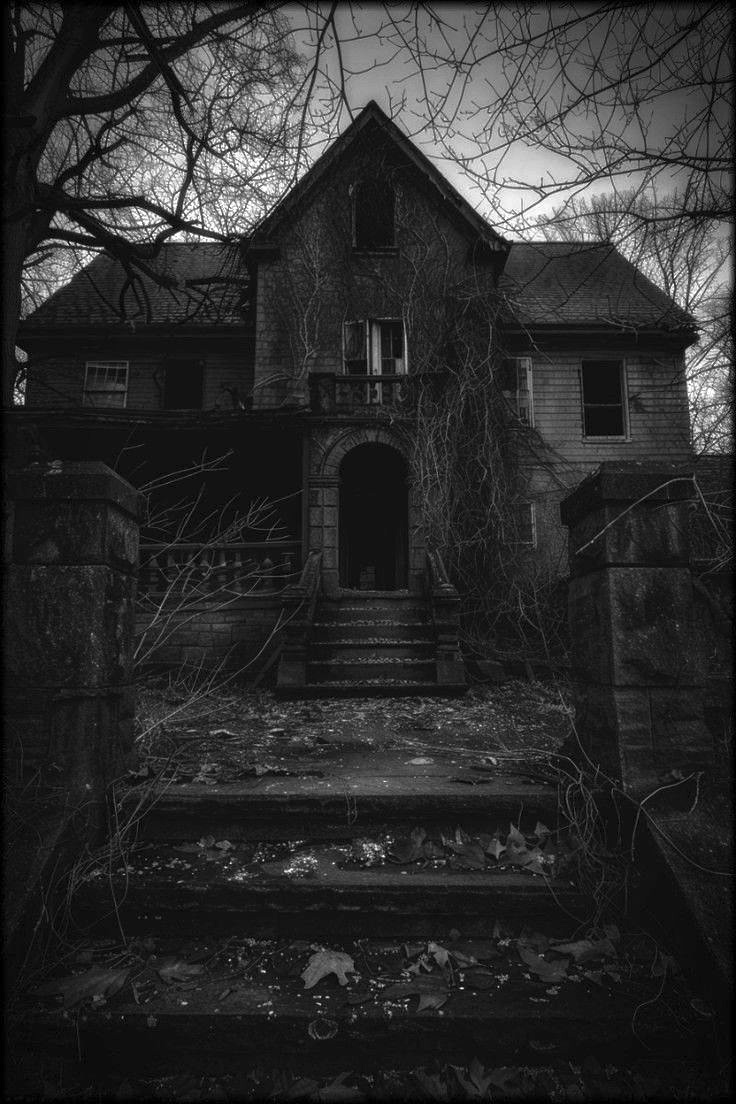
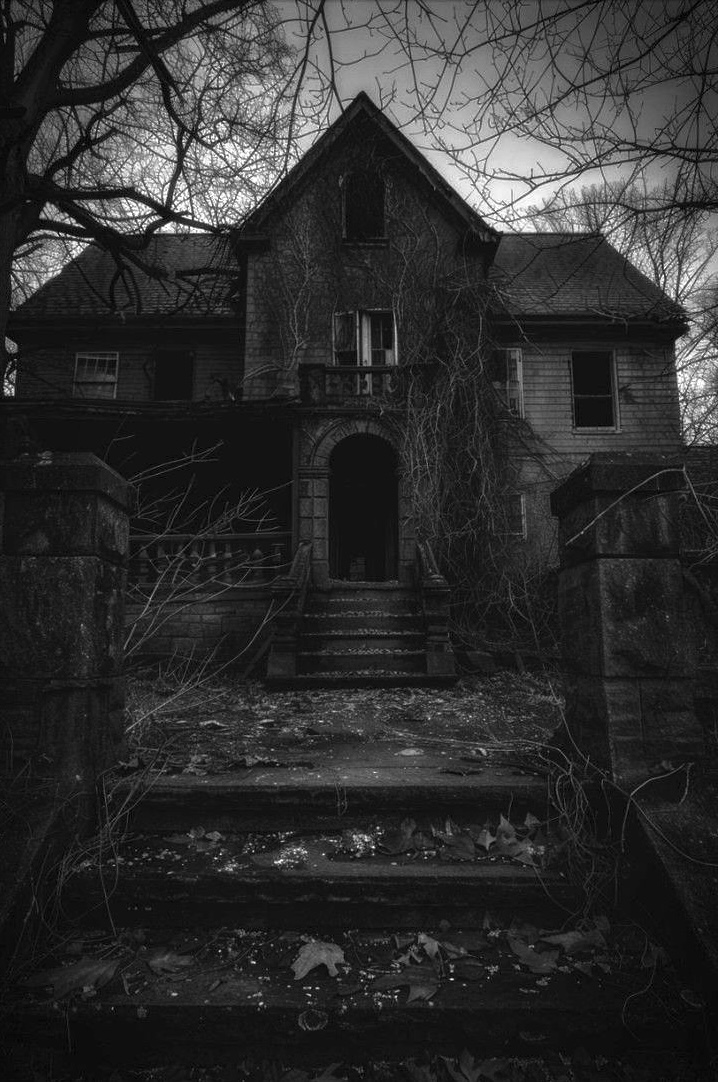
Desktop - Om festen fixet

diff --git a/om-festen.html b/om-festen.html
@@ -13,13 +13,13 @@
   <main id="main-content">
     <section class="page-hero about-hero" aria-labelledby="about-title"><div class="hero-overlay"></div><div class="container page-hero-content"><p class="eyebrow">Halloween 2026 / København</p><h1 id="about-title">Når mørket <span class="pirata">kalder</span></h1><p>Velkommen til HorrorHouse – en halloweenfest i et hjemsøgt hus, hvor musikken, mørket og overraskelserne følger dig hele natten.</p><div class="date-lockup"><span>31</span><strong>Oktober</strong></div><p class="hero-meta">20:00–03:00 <span>•</span> 18–30 år <span>•</span> gothic dresscode</p></div></section>
 
-    <section class="section" aria-labelledby="experience-title"><div class="container"><p class="eyebrow">01 / Oplevelsen</p><div class="split split-wide"><div><h2 id="experience-title">Et hus. Én nat.<br>Ingen almindelig fest.</h2><p>Når du træder ind i HorrorHouse, træder du ind i en anden verden. Gå gennem dunkle rum, mærk stemningen og bliv en del af en halloweenfest med mørk elegance og plads til både dans, grin og gåsehud.</p></div><aside class="invitation"><h3>Din invitation</h3><p><strong>31. oktober 2026</strong><br>20:00–03:00<br><strong>Mørkegyde 13<br>1560 København</strong><br>Alder: 18–30 år</p></aside></div></div></section>
+    <section class="section" aria-labelledby="experience-title"><div class="container"><p class="eyebrow">01 / Oplevelsen</p><div class="split split-wide"><div><h2 id="experience-title">Et hus. Én nat.<br>Ingen almindelig fest.</h2><p>Når du træder ind i HorrorHouse, træder du ind i en anden verden. Gå gennem dunkle rum, mærk stemningen og bliv en del af en halloweenfest med mørk elegance og plads til både dans, grin og gåsehud.</p></div><aside class="invitation"><h3>Din invitation</h3><p class="invitation-name pirata">HorrorHouse</p><dl class="invitation-details"><div><dt><svg class="icon" aria-hidden="true"><use href="#i-calendar-days"/></svg>Dato</dt><dd>31. oktober 2026</dd></div><div><dt><svg class="icon" aria-hidden="true"><use href="#i-clock"/></svg>Tidspunkt</dt><dd>20:00–03:00</dd></div><div><dt><svg class="icon" aria-hidden="true"><use href="#i-map-pin"/></svg>Adresse</dt><dd>Mørkegyde 13<br>1560 København</dd></div><div><dt><svg class="icon" aria-hidden="true"><use href="#i-ticket"/></svg>Alder</dt><dd>18–30 år</dd></div></dl></aside></div></div></section>
 
-    <section class="section section-gray" aria-labelledby="awaits-title"><div class="container"><p class="eyebrow">02 / Det venter dig</p><h2 id="awaits-title">Gå på opdagelse i natten</h2><div class="card-scroller" tabindex="0" role="region" aria-label="Festoplevelser – rul vandret for flere"><article class="image-card numbered"><img src="assets/images/about/about-01.jpg" width="723" height="960" loading="lazy" alt="Trappe med spindelvæv, skeletter og lanterner"><div><span>01</span><h3>Udforsk de mørke rum</h3><p>Gå på opdagelse i husets gange og rum, hvor ikke alt er, som det ser ud.</p><b>Mystik</b></div></article><article class="image-card numbered"><img src="assets/images/about/about-09.png" width="236" height="419" loading="lazy" alt="Gæster danser i en tåget sal"><div><span>02</span><h3>Dans i salen</h3><p>Lad musikken tage over. Dansegulvet er åbent, og natten er din.</p><b>Musik</b></div></article><article class="image-card numbered"><img src="assets/images/about/about-10.png" width="1024" height="1536" loading="lazy" alt="Blå drink og kranieflaske ved levende lys"><div><span>03</span><h3>Drinks i husets bar</h3><p>Find vej til baren, og lad dig overraske af aftenens mørke stemning.</p><b>Stemning</b></div></article></div></div></section>
+    <section class="section section-gray" aria-labelledby="awaits-title"><div class="container"><p class="eyebrow">02 / Det venter dig</p><h2 id="awaits-title">Gå på opdagelse i natten</h2><div class="card-scroller card-scroller-flush" tabindex="0" role="region" aria-label="Festoplevelser – rul vandret for flere"><article class="image-card numbered"><img src="assets/images/home/home-1.jpg" width="723" height="960" loading="lazy" alt="Trappe med spindelvæv, skeletter og lanterner"><div><span>01</span><h3>Udforsk de mørke rum</h3><p>Gå på opdagelse i husets gange og rum, hvor ikke alt er, som det ser ud.</p><b>Mystik</b></div></article><article class="image-card numbered"><img src="assets/images/about/about-09.png" width="236" height="419" loading="lazy" alt="Gæster danser i en tåget sal"><div><span>02</span><h3>Dans i salen</h3><p>Lad musikken tage over. Dansegulvet er åbent, og natten er din.</p><b>Musik</b></div></article><article class="image-card numbered"><img src="assets/images/about/about-10.png" width="1024" height="1536" loading="lazy" alt="Blå drink og kranieflaske ved levende lys"><div><span>03</span><h3>Drinks i husets bar</h3><p>Find vej til baren, og lad dig overraske af aftenens mørke stemning.</p><b>Stemning</b></div></article></div></div></section>
 
     <section class="section timeline-section" aria-labelledby="timeline-title"><div class="container"><p class="eyebrow">03 / Aftenens forløb</p><h2 id="timeline-title">Fra første skridt til sidste dans</h2><p>Sådan kan aftenen opleves – nærmere detaljer om aktiviteter kommer senere.</p><ol class="timeline"><li><time>20:00</time><div><h3>Dørene åbner</h3><p>Træd ind i HorrorHouse.</p></div></li><li><span class="timeline-time">I løbet af natten</span><div><h3>Udforsk huset</h3><p>Mørke rum og uventede oplevelser.</p></div></li><li><span class="timeline-time">Hele natten</span><div><h3>Musik &amp; dans</h3><p>Feststemning og bar.</p></div></li><li><time>03:00</time><div><h3>Natten slutter</h3><p>Tak for en uforglemmelig aften.</p></div></li></ol><p class="practical"><strong>Praktisk:</strong> Husk billet og ID. Dresscode er gothic.</p></div></section>
 
-    <section class="cta-band" aria-labelledby="about-cta-title"><div class="container cta-inner"><svg class="icon icon--xl" aria-hidden="true"><use href="#i-triangle-alert"/></svg><div><h2 id="about-cta-title">Tør du træde indenfor?</h2><p>31. oktober • København • Billetter fra 129 kr.</p></div><a class="button button-dark" href="tilmelding.html">Tilmeld dig i dag <svg class="icon icon--lg" aria-hidden="true"><use href="#i-arrow-right"/></svg></a></div></section>
+    <section class="cta-band" aria-labelledby="about-cta-title"><div class="container cta-inner"><div class="cta-message"><svg class="icon icon--xl" aria-hidden="true"><use href="#i-triangle-alert"/></svg><div><h2 id="about-cta-title">Tør du træde indenfor?</h2><p>31. oktober • København • Billetter fra 129 kr.</p></div></div><a class="button button-dark" href="tilmelding.html">Tilmeld dig i dag <svg class="icon icon--lg" aria-hidden="true"><use href="#i-arrow-right"/></svg></a></div></section>
   </main>
   <footer class="site-footer"><div class="container footer-grid"><div class="footer-brand"><a class="brand" href="index.html"><span class="brand-mark" aria-hidden="true">⚠</span><span>HorrorHouse</span></a><address>Mørkegyde 13<br>1560 København</address></div><div class="footer-contact"><a href="mailto:info@horrorhouse.dk">info@horrorhouse.dk</a><a class="instagram" href="https://www.instagram.com/"><img src="assets/images/home/home-12.png" width="100" height="100" alt=""> Instagram</a></div><nav class="footer-nav" aria-label="Footer navigation"><div><h2>Festen</h2><a href="tilmelding.html">Billetter</a><a href="om-festen.html">Om festen</a><a href="dresscode.html">Dresscode</a></div><div><h2>Hjælp</h2><a href="kontakt.html#faq">Ofte stillede spørgsmål</a><a href="kontakt.html">Kontakt</a><span>Betingelser og cookies</span></div></nav></div><p class="copyright">© 2026 HorrorHouse</p></footer>
 </body></html>

diff --git a/css/style.css b/css/style.css
@@ -918,6 +918,14 @@ body.menu-open .hero-thread {
   gap: 1rem;
 }
 
+/* Ikon og tekst hører sammen som én gruppe (mobil: ikon over tekst, desktop: ikon til venstre for teksten) */
+.cta-message {
+  display: flex;
+  flex-direction: column;
+  align-items: center;
+  gap: 1rem;
+}
+
 .cta-inner h2 {
   max-width: 780px;
   margin-bottom: .35rem;
@@ -1099,10 +1107,6 @@ body.menu-open .hero-thread {
   padding: 5rem 0;
 }
 
-.page-hero-content {
-  max-width: 860px;
-}
-
 .page-hero-content > p:not(.eyebrow):not(.hero-meta) {
   max-width: 700px;
   font-size: 1.15rem;
@@ -1163,6 +1167,51 @@ body.menu-open .hero-thread {
   text-transform: uppercase;
   font: 800 .85rem/1.3 "DM Sans", sans-serif;
   letter-spacing: .12em;
+  color: var(--yellow);
+  margin-bottom: .5rem;
+}
+
+.invitation-name {
+  margin-bottom: 1.25rem;
+  font-size: clamp(2.75rem, 6vw, 3.75rem);
+  line-height: 1;
+}
+
+.invitation-details {
+  margin: 0;
+}
+
+/* Ikon til venstre, tydeligt label (dt) over værdien (dd), og en streg mellem hver oplysning */
+.invitation-details > div {
+  position: relative;
+  padding: 1rem 0 1rem 3.25rem;
+  border-top: 1px solid var(--gray-2);
+}
+
+.invitation-details dt {
+  margin-bottom: .3rem;
+  color: #d0d0d5;
+  font-size: .8rem;
+  font-weight: 800;
+  text-transform: uppercase;
+  letter-spacing: .09em;
+  line-height: 1.2;
+}
+
+.invitation-details dd {
+  margin: 0;
+  font-size: 1.25rem;
+  font-weight: 700;
+  line-height: 1.3;
+}
+
+.invitation-details .icon {
+  position: absolute;
+  top: 50%;
+  left: .25rem;
+  width: 28px;
+  height: 28px;
+  transform: translateY(-50%);
   color: var(--yellow);
 }
 
@@ -1988,7 +2037,6 @@ body.menu-open .hero-thread {
     --spider-size: 50px;
     --spider-hang-start: 22px;
     --spider-hang-end: 14px;
-    min-height: 790px;
     align-items: center;
     padding-block: 4rem;
   }
@@ -2102,22 +2150,127 @@ body.menu-open .hero-thread {
     display: block;
   }
 
+  /* CTA-banner: advarsel + tekst som én gruppe til venstre, knappen til højre. Tekst og knap står i forhold til hinanden */
   .cta-inner {
     flex-direction: row;
     justify-content: space-between;
+    gap: 3rem;
+    min-height: 5rem; /* samme bannerhøjde med og uden understøttende linje */
     text-align: left;
+  }
+
+  .cta-message {
+    flex-direction: row;
+    gap: 1.5rem;
+  }
+
+  .cta-message .icon--xl {
+    width: 64px;
+    height: 64px;
+  }
+
+  .cta-inner h2 {
+    max-width: none;
+    margin-bottom: 0;
+    font-size: 2.5rem;
+    text-wrap: balance;
+  }
+
+  .cta-inner p {
+    margin: .5rem 0 0;
+    font-size: 1.25rem;
   }
 
   .cta-inner .button {
     flex-shrink: 0;
+    min-height: 64px;
+    padding: 1rem 2.25rem;
+    font-size: 1.25rem;
   }
 
-  .page-hero {
-    min-height: 740px;
+  .cta-inner .button .icon--lg {
+    width: 26px;
+    height: 26px;
   }
 
+  /* Alle heroer har samme højde som forsidens (Figma: 790 px) */
+  .home-hero,
+  .page-hero,
+  .signup-hero,
+  .contact-hero {
+    min-height: 790px;
+  }
+
+  /* Fælles hero-farve for Om festen og Dresscode: grå bund med en mørk tone, der er lysere end menu og sektion under */
+  .about-hero,
+  .dresscode-hero {
+    --hero-tint: linear-gradient(90deg, rgba(13, 13, 17, .62) 5%, rgba(13, 13, 17, .42) 48%, rgba(13, 13, 17, .15));
+  }
+
+  /*
+    Om festen: som dresscode – billedet til højre i fuld højde, uden overlay over billedet.
+    Gradienten ligger som baggrundslag BAG billedet, så billedet ikke dæmpes.
+  */
   .about-hero {
-    background-position: center 55%;
+    background-color: var(--gray);
+    background-image: url("../assets/images/about/about-02.jpg"), var(--hero-tint);
+    background-position: right top, 0 0;
+    background-size: auto 100%, 100% 100%;
+  }
+
+  .about-hero .hero-overlay {
+    display: none;
+  }
+
+  /* "Det venter dig": overskrift, billeder og korttekst flugter i samme venstrekant */
+  .card-scroller-flush {
+    padding-inline: 0;
+  }
+
+  .image-card.numbered {
+    background: transparent;
+    border-radius: 0;
+  }
+
+  .image-card.numbered img {
+    border-radius: var(--radius);
+  }
+
+  .image-card.numbered > div {
+    padding: 1rem 0 0;
+  }
+
+  /* "Aftenens forløb": vandret tidslinje på desktop (lodret på mobil og tablet) */
+  .timeline {
+    display: grid;
+    grid-template-columns: repeat(4, minmax(0, 1fr));
+    gap: 2rem;
+  }
+
+  .timeline li {
+    grid-template-columns: 1fr;
+    padding: 2.25rem 0 0;
+    border-left: 0;
+  }
+
+  .timeline li::before {
+    left: 0;
+    top: 0;
+  }
+
+  .timeline time,
+  .timeline-time {
+    font-size: 1.125rem;
+  }
+
+  /* Stregen fra prikken videre til næste punkt (rækker ind over mellemrummet) */
+  .timeline li:not(:last-child)::after {
+    content: "";
+    position: absolute;
+    top: calc(.45rem - .5px);
+    left: .9rem;
+    right: -2rem;
+    border-top: 1px solid var(--gray-2);
   }
 
   .dresscode-hero {
@@ -2128,11 +2281,7 @@ body.menu-open .hero-thread {
   }
 
   .dresscode-hero .hero-overlay {
-    background: linear-gradient(90deg, rgba(13, 13, 17, .98) 5%, rgba(13, 13, 17, .78) 48%, rgba(13, 13, 17, .15));
-  }
-
-  .signup-hero {
-    min-height: 620px;
+    background: var(--hero-tint);
   }
 
   .ticket-grid-detailed {

diff --git a/kontakt.html b/kontakt.html
@@ -11,7 +11,7 @@
       <section class="panel" aria-labelledby="contact-form-title"><h2 id="contact-form-title">Send os en besked</h2><p>Vi besvarer gerne spørgsmål om festen.</p><form class="styled-form" id="contact-form" novalidate><div class="field"><label for="contact-name">Navn <span aria-hidden="true">*</span></label><input id="contact-name" name="name" type="text" autocomplete="name" required placeholder="Dit navn" aria-describedby="contact-name-error"><p class="field-error" id="contact-name-error"></p></div><div class="field"><label for="contact-email">E-mail <span aria-hidden="true">*</span></label><input id="contact-email" name="email" type="email" autocomplete="email" required placeholder="din@email.dk" aria-describedby="contact-email-error"><p class="field-error" id="contact-email-error"></p></div><div class="field"><label for="contact-subject">Emne <span aria-hidden="true">*</span></label><input id="contact-subject" name="subject" type="text" required placeholder="Hvad drejer det sig om?" aria-describedby="contact-subject-error"><p class="field-error" id="contact-subject-error"></p></div><div class="field"><label for="contact-message">Besked <span aria-hidden="true">*</span></label><textarea id="contact-message" name="message" required minlength="10" placeholder="Skriv din besked her..." aria-describedby="contact-message-error"></textarea><p class="field-error" id="contact-message-error"></p></div><button class="button form-submit" type="submit">Send besked <svg class="icon" aria-hidden="true"><use href="#i-arrow-right"/></svg></button><p class="form-success" id="contact-success" role="status" tabindex="-1" hidden>Tak. Dette er en demonstration, og din besked er derfor ikke blevet sendt.</p></form></section>
       <section class="panel faq-panel" id="faq" aria-labelledby="faq-title"><h2 id="faq-title">Ofte stillede spørgsmål</h2><div class="faq-list"><details><summary>Hvornår og hvor afholdes festen?</summary><p>31. oktober 2026 i København fra kl. 20.00 til 03.00 på den fiktive adresse Mørkegyde 13, 1560 København.</p></details><details><summary>Hvad betyder gothic dresscode?</summary><p>Gothic betyder mørk elegance. Brug gerne sort tøj, blonder og mørk makeup. Se <a href="dresscode.html">Dresscode</a>.</p></details><details><summary>Hvilke billetter findes der?</summary><p>Early Bird: 129 kr. Vennebillet til fire: 440 kr. Standard til 149 kr. er udsolgt.</p></details><details><summary>Kan man komme alene?</summary><p>Ja, du er velkommen til at komme alene og møde andre gæster.</p></details><details><summary>Er der en aldersgrænse?</summary><p>Ja, HorrorHouse er for 18–30-årige. Medbring gyldig billedlegitimation.</p></details><details><summary>Er der garderobe?</summary><p>Vi forventer garderobe. Flere oplysninger følger før festen.</p></details><details><summary>Kan jeg få pengene retur?</summary><p>Som udgangspunkt refunderes billetter ikke. Kontakt os ved spørgsmål.</p></details></div></section>
     </div></div>
-    <section class="cta-band" aria-labelledby="contact-cta-title"><div class="container cta-inner"><svg class="icon icon--xl" aria-hidden="true"><use href="#i-triangle-alert"/></svg><h2 id="contact-cta-title">Klar til en nat, du aldrig glemmer?</h2><a class="button button-dark" href="tilmelding.html">Tilmeld dig i dag <svg class="icon icon--lg" aria-hidden="true"><use href="#i-arrow-right"/></svg></a></div></section>
+    <section class="cta-band" aria-labelledby="contact-cta-title"><div class="container cta-inner"><div class="cta-message"><svg class="icon icon--xl" aria-hidden="true"><use href="#i-triangle-alert"/></svg><div><h2 id="contact-cta-title">Klar til en nat, du aldrig glemmer?</h2></div></div><a class="button button-dark" href="tilmelding.html">Tilmeld dig i dag <svg class="icon icon--lg" aria-hidden="true"><use href="#i-arrow-right"/></svg></a></div></section>
   </main>
   <footer class="site-footer"><div class="container footer-grid"><div class="footer-brand"><a class="brand" href="index.html"><span class="brand-mark" aria-hidden="true">⚠</span><span>HorrorHouse</span></a><address>Mørkegyde 13<br>1560 København</address></div><div class="footer-contact"><a href="mailto:info@horrorhouse.dk">info@horrorhouse.dk</a><a class="instagram" href="https://www.instagram.com/"><img src="assets/images/home/home-12.png" width="100" height="100" alt=""> Instagram</a></div><nav class="footer-nav" aria-label="Footer navigation"><div><h2>Festen</h2><a href="tilmelding.html">Billetter</a><a href="om-festen.html">Om festen</a><a href="dresscode.html">Dresscode</a></div><div><h2>Hjælp</h2><a href="kontakt.html#faq">Ofte stillede spørgsmål</a><a href="kontakt.html">Kontakt</a><span>Betingelser og cookies</span></div></nav></div><p class="copyright">© 2026 HorrorHouse</p></footer>
 </body></html>

diff --git a/dresscode.html b/dresscode.html
@@ -14,7 +14,7 @@
 
     <section class="section styling-section" aria-labelledby="styling-title"><div class="container"><p class="eyebrow">03 / Sådan sammensætter du et look</p><div class="split split-wide"><div><h2 id="styling-title">Du behøver ikke et helt nyt kostume</h2><p>Gothic handler om helhedsindtrykket. Brug noget, du allerede har, og byg videre med et par markante detaljer.</p><img class="feature-image tall" src="assets/images/dresscode/dresscode-07.png" width="284" height="424" loading="lazy" alt="Person i hvid skjorte og mørk vest som gothic inspiration"></div><ol class="style-steps"><li><span>01</span><div><h3>Start med en mørk base</h3><p>Sort tøj, mørke bukser, en kjole eller en skjorte.</p></div></li><li><span>02</span><div><h3>Leg med teksturer</h3><p>Fløjl, blonder, mesh eller læderlook skaber dybde.</p></div></li><li><span>03</span><div><h3>Tilføj accessories</h3><p>Sølvfarvede smykker, støvler, bælter eller et slør.</p></div></li><li><span>04</span><div><h3>Gør det personligt</h3><p>Mørke øjne eller læber, hvis du har lyst – makeup er valgfrit.</p></div></li></ol></div><p class="center-note">Dresscoden er gothic, men stilen har mange udtryk. Vælg et outfit, du føler dig godt tilpas i.</p></div></section>
 
-    <section class="cta-band" aria-labelledby="dress-cta-title"><div class="container cta-inner"><svg class="icon icon--xl" aria-hidden="true"><use href="#i-triangle-alert"/></svg><div><h2 id="dress-cta-title">Outfittet er klar. Er du?</h2><p>Se, hvad der venter dig til festen den 31. oktober.</p></div><a class="button button-dark" href="tilmelding.html">Tilmeld dig i dag <svg class="icon icon--lg" aria-hidden="true"><use href="#i-arrow-right"/></svg></a></div></section>
+    <section class="cta-band" aria-labelledby="dress-cta-title"><div class="container cta-inner"><div class="cta-message"><svg class="icon icon--xl" aria-hidden="true"><use href="#i-triangle-alert"/></svg><div><h2 id="dress-cta-title">Outfittet er klar. Er du?</h2><p>Se, hvad der venter dig til festen den 31. oktober.</p></div></div><a class="button button-dark" href="tilmelding.html">Tilmeld dig i dag <svg class="icon icon--lg" aria-hidden="true"><use href="#i-arrow-right"/></svg></a></div></section>
   </main>
   <footer class="site-footer"><div class="container footer-grid"><div class="footer-brand"><a class="brand" href="index.html"><span class="brand-mark" aria-hidden="true">⚠</span><span>HorrorHouse</span></a><address>Mørkegyde 13<br>1560 København</address></div><div class="footer-contact"><a href="mailto:info@horrorhouse.dk">info@horrorhouse.dk</a><a class="instagram" href="https://www.instagram.com/"><img src="assets/images/home/home-12.png" width="100" height="100" alt=""> Instagram</a></div><nav class="footer-nav" aria-label="Footer navigation"><div><h2>Festen</h2><a href="tilmelding.html">Billetter</a><a href="om-festen.html">Om festen</a><a href="dresscode.html">Dresscode</a></div><div><h2>Hjælp</h2><a href="kontakt.html#faq">Ofte stillede spørgsmål</a><a href="kontakt.html">Kontakt</a><span>Betingelser og cookies</span></div></nav></div><p class="copyright">© 2026 HorrorHouse</p></footer>
 </body></html>

diff --git a/index.html b/index.html
@@ -91,7 +91,7 @@
       </div>
     </section>
 
-    <section class="cta-band cta-band-desktop-only" aria-labelledby="outfit-cta-title"><div class="container cta-inner"><svg class="icon icon--xl" aria-hidden="true"><use href="#i-triangle-alert"/></svg><h2 id="outfit-cta-title">Styr på outfittet? Så mangler du kun billetten.</h2><a class="button button-dark" href="tilmelding.html">Tilmeld dig i dag <svg class="icon icon--lg" aria-hidden="true"><use href="#i-arrow-right"/></svg></a></div></section>
+    <section class="cta-band cta-band-desktop-only" aria-labelledby="outfit-cta-title"><div class="container cta-inner"><div class="cta-message"><svg class="icon icon--xl" aria-hidden="true"><use href="#i-triangle-alert"/></svg><div><h2 id="outfit-cta-title">Styr på outfittet? Så mangler du kun billetten.</h2></div></div><a class="button button-dark" href="tilmelding.html">Tilmeld dig i dag <svg class="icon icon--lg" aria-hidden="true"><use href="#i-arrow-right"/></svg></a></div></section>
 
     <section class="section tickets-home" aria-labelledby="tickets-home-title">
       <div class="tickets-overlay"></div>
